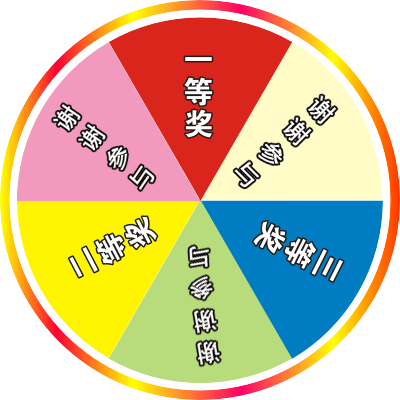
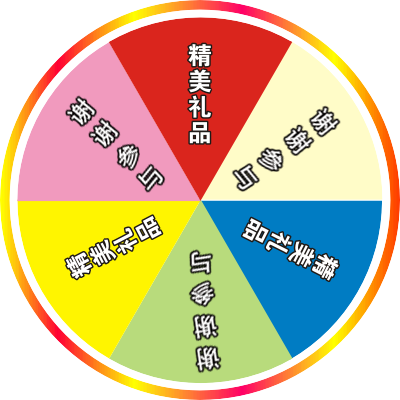
1

diff --git a/question.html b/question.html
@@ -52,7 +52,7 @@ function checkJP() {
 $.post( "/check", {id:mobile}, function(data) {
   console.log(data);
   if (data.message == "sorry"){
-     $("#sorry").html("<h2>抱歉，您没有中奖</h2>");
+     $("#sorry").html("<h2>很抱歉，您未中奖，感谢您的参与</h2>");
      $("#information").html("");
   } else if (data.message == "bingo"){
      //cur_time=new Date(data.time);
@@ -89,13 +89,13 @@ $("#image").rotate({
 		console.log(data);
 		
 		if (data.message == "sorry"){
-      alert('很抱歉，您未中奖');
+      alert('很抱歉，您未中奖，感谢您的参与');
 		  location.href = "#done";
 		} else if (data.message == "wait"){
       alert('抽奖活动尚未开始，请耐心等待');
 		  location.href = "#wait";
 		} else if (data.message == "bingo") {
-      alert('恭喜您中了'+data.jiaping);
+      alert('恭喜您中奖啦，奖品为50MB流量，将在24小时内为您充值到账，请注意查收');
       //cur_time=new Date(data.time);
       //cur_time=cur_time.toString();
 		  $("#jp_time").html(timestampToDate(data.time));
@@ -209,7 +209,7 @@ $("#lot").click(function(event)  {
 
 <div data-role="page" id="login">
   <div data-role="header">
-    <h1>欢迎参加答题抽奖</h1>
+    <h1>欢迎参与嘉定区税务局2016年度税收宣传月有奖问答活动</h1>
   </div>
 
   <div data-role="main" class="ui-content">
@@ -271,7 +271,7 @@ $("#lot").click(function(event)  {
   </div>
 
   <div data-role="main" class="ui-content">
-  <h2>你已经参加过抽奖活动</h2>
+  <h2>本活动单个手机号一天只能参与一次，敬请谅解</h2>
   <a href="#info" class="ui-btn" onclick="checkJP()">我的奖品</a>
 
   </div>
